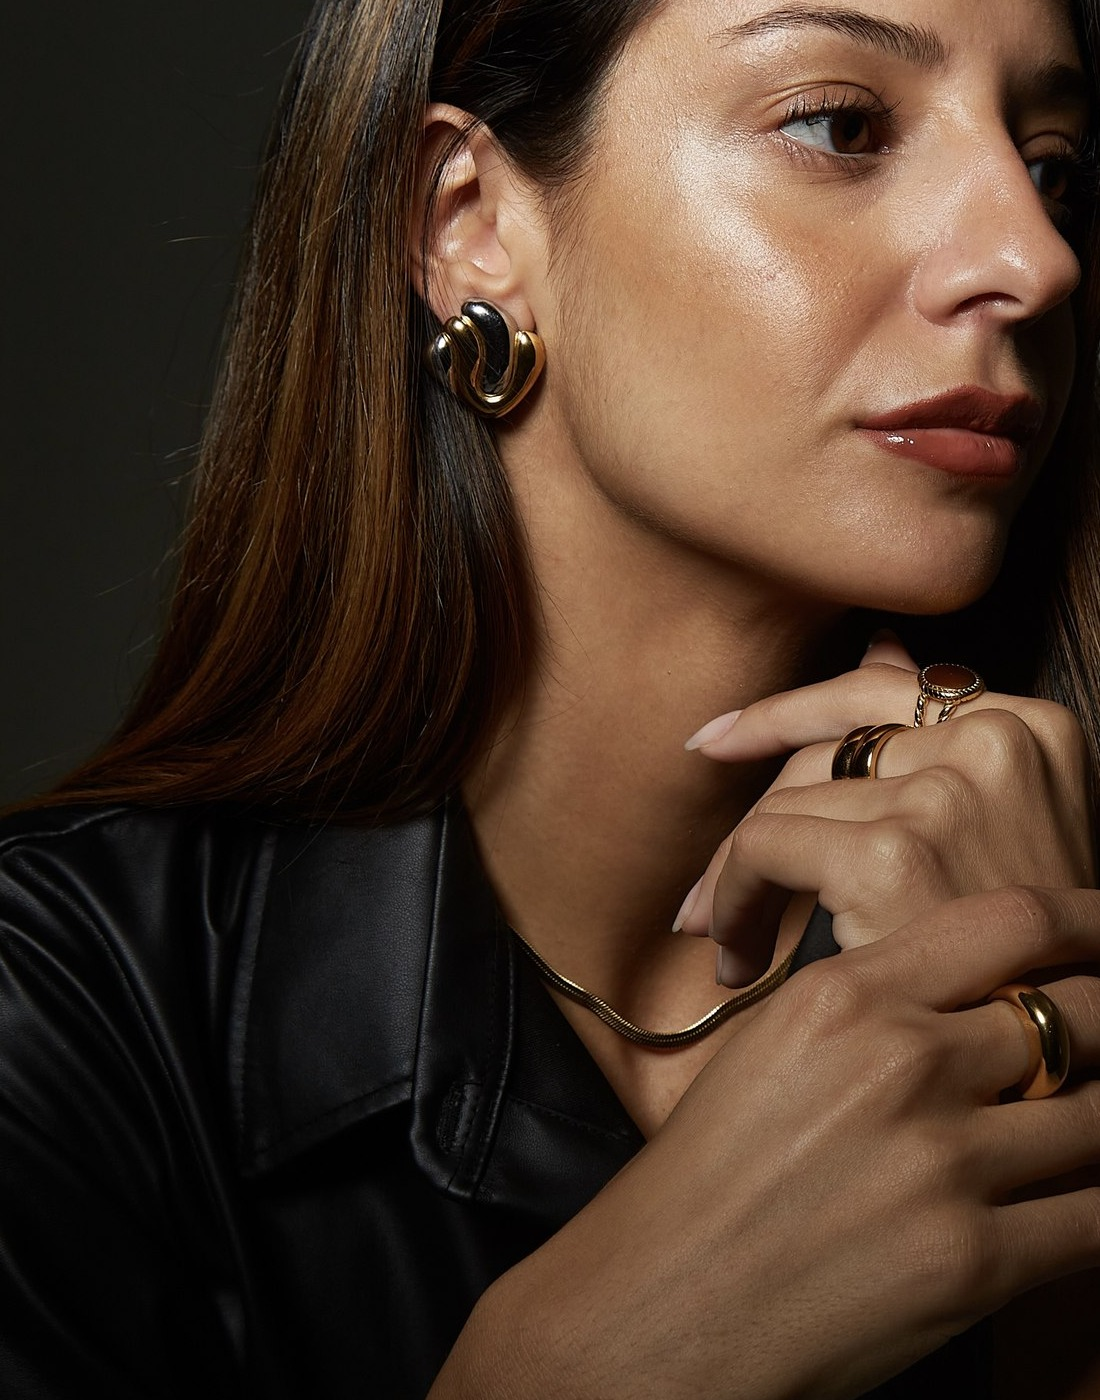
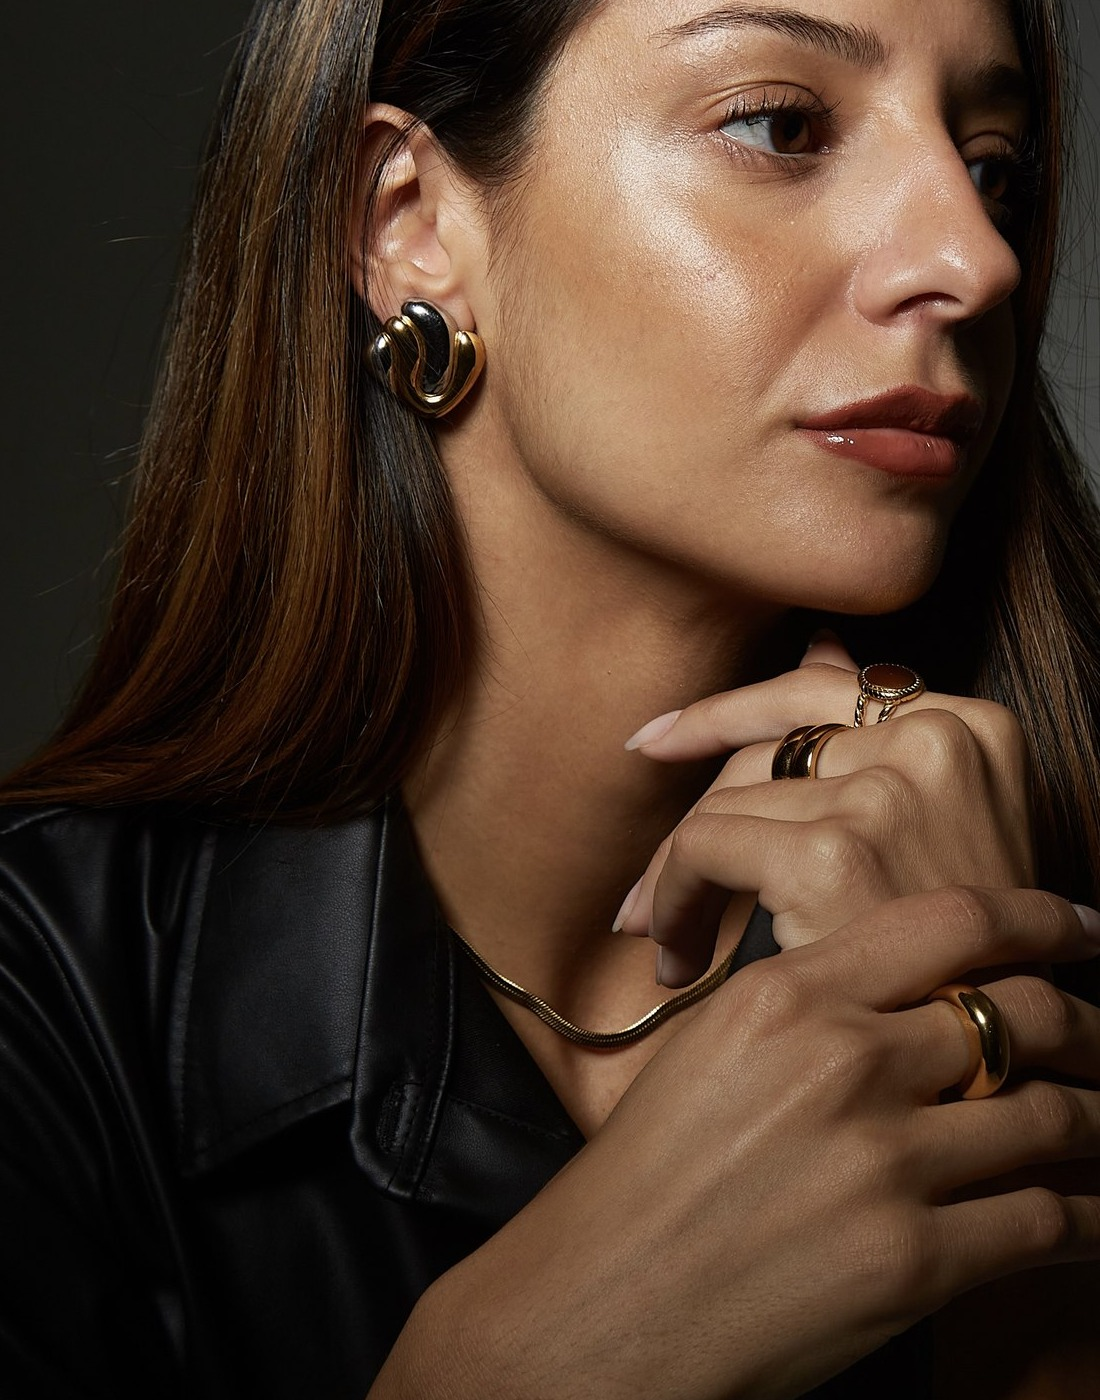
Shift Arizona photo's framing slightly left within the crop
Panned the crop window right by 60px (same output size/ratio, zero
layout impact) so the subject reads slightly left-of-center in the
frame instead of right-of-center, per feedback.

diff --git a/index.html b/index.html
@@ -89,7 +89,7 @@
     <img src="assets/img/portrait_left.jpg?v=3" alt="Beauty portrait">
   </div>
   <div class="g-cell reveal-up">
-    <img src="assets/img/brand5_arizona.jpg?v=4" alt="Colaboración Arizona Accesorios">
+    <img src="assets/img/brand5_arizona.jpg?v=5" alt="Colaboración Arizona Accesorios">
     <a class="credit" href="https://instagram.com/arizona.accesorios" target="_blank" rel="noopener">@arizona.accesorios</a>
   </div>
   <div class="g-cell reveal-up">
